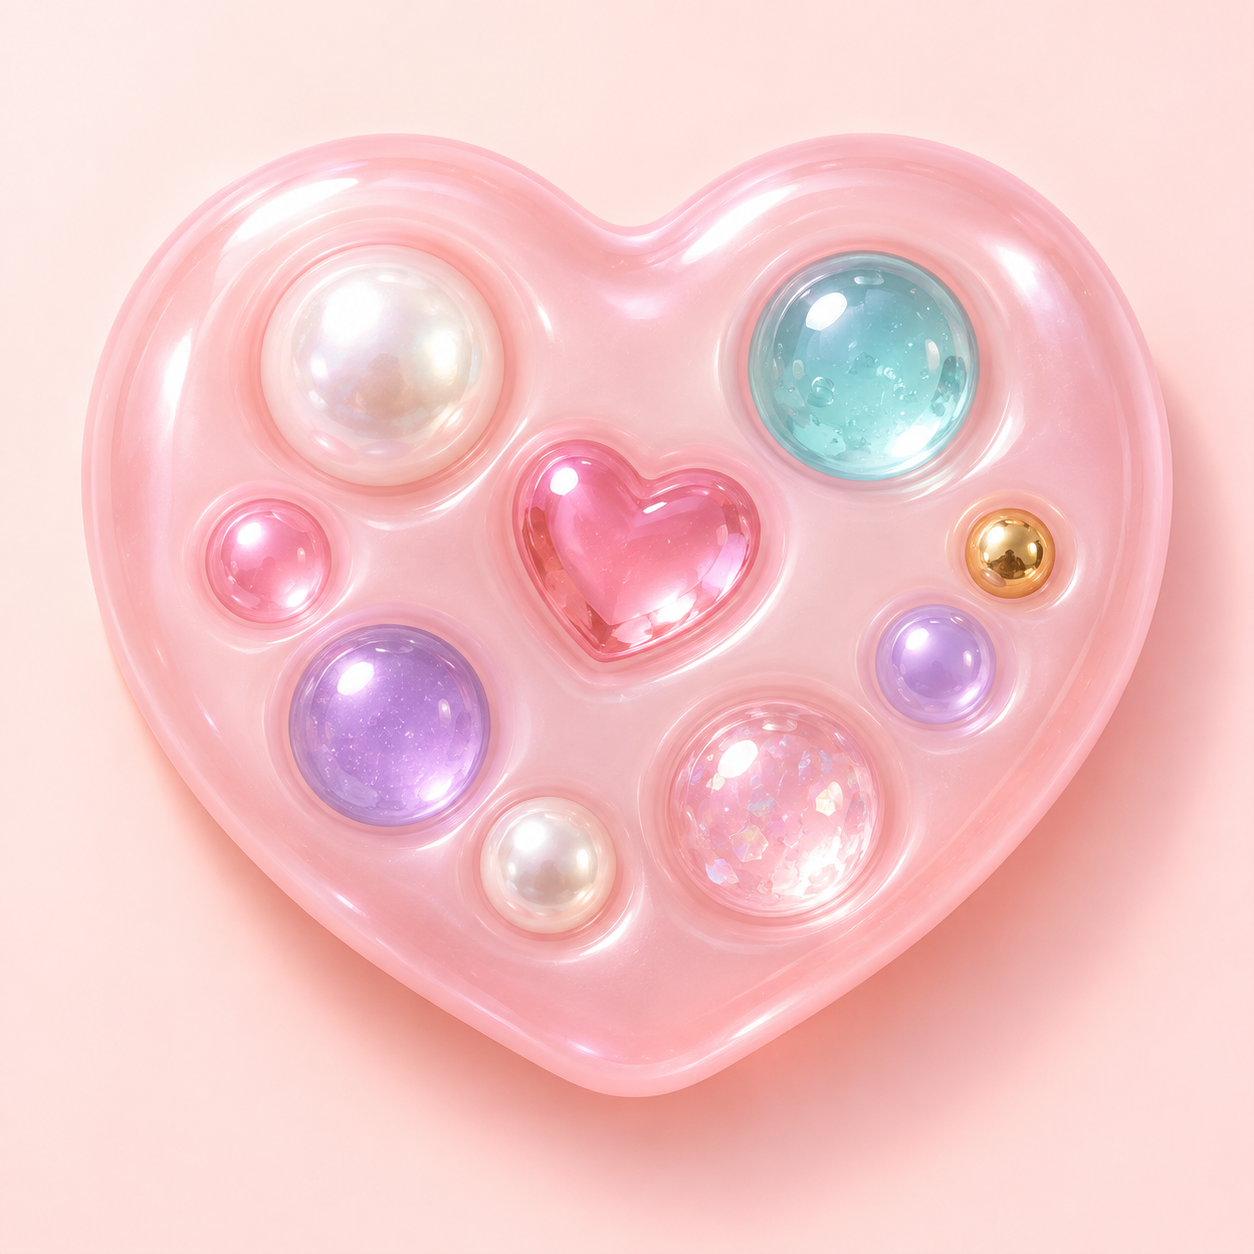
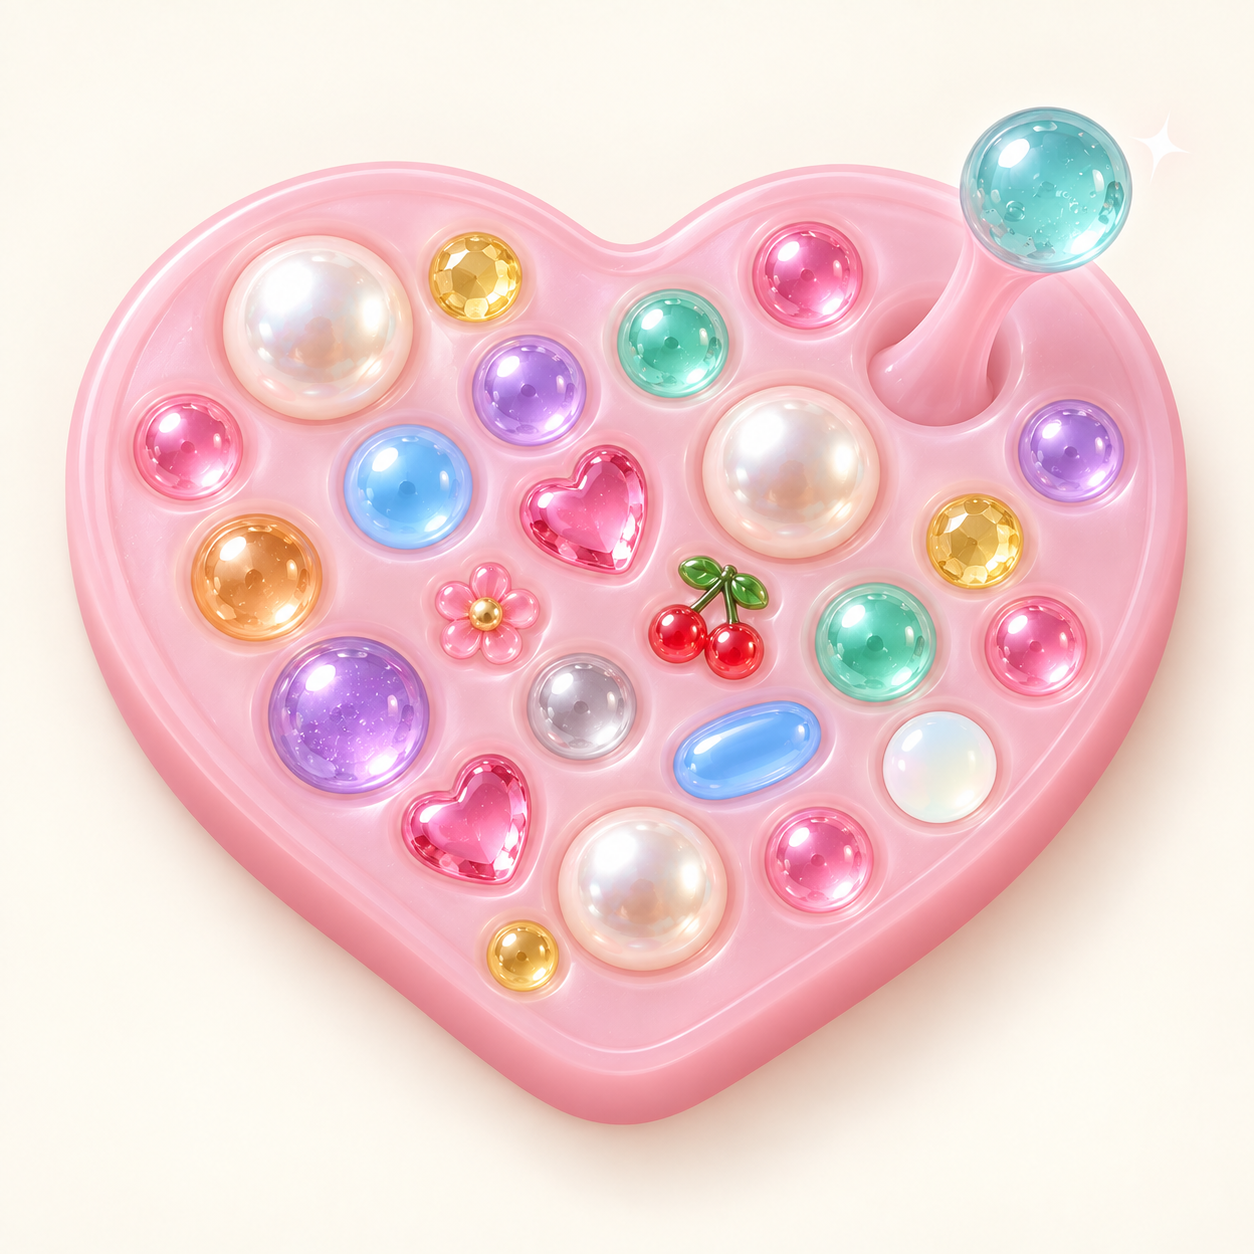
공유 카드와 큰 비즈 손맛 개선

diff --git a/src/game/Game.ts b/src/game/Game.ts
@@ -635,6 +635,7 @@ export class Game extends Emitter<GameEvents> {
   private doPop(b: Bead, fingerId: number, dx: number, dy: number, speed: number) {
     const s = this.s;
     const sizeStrength = pullSizeStrength(b, this.gel.R);
+    const king = b.type.id === "king";
     const rare = b.type.rarity === "rare";
     const pos = beadPos(b);
     this.pulls.delete(fingerId);
@@ -645,14 +646,23 @@ export class Game extends Emitter<GameEvents> {
 
     // 0ms: freed – kicks toward the finger, hangs there ~150ms so the moment lands, then arcs into the cup
     // (treasures arc up to the treasure box instead)
-    const kick = b.type.bounce * s * (1 + Math.min(speed, 1400) / 2800);
-    const start = this.toCanvas(pos.x + dx * kick, pos.y + dy * kick);
+    const kick = b.type.bounce * s * (1 + Math.min(speed, 1400) / 2800) * (king ? 1.65 : 1);
+    let kx = dx * kick;
+    let ky = king ? Math.min(dy * kick, -kick * 0.25) - 12 * s : dy * kick;
+    const start = this.toCanvas(pos.x + kx, pos.y + ky);
+    if (king) {
+      const margin = b.radius * 1.25;
+      start.x = clamp(start.x, margin, this.w - margin);
+      start.y = clamp(start.y, margin, this.h - margin);
+      kx = start.x - this.padCx - pos.x;
+      ky = (start.y - this.padCy) / this.gel.tilt - pos.y;
+    }
     const kind = treasureKind(b.type);
     const end = kind ? this.treasureEntry : this.collector.entry;
     const mx = (start.x + end.x) / 2 + dx * 30 * s;
-    const my = Math.min(start.y, end.y) - (70 + 60 * Math.random()) * s;
-    const dur = (0.46 + b.type.mass * 0.11) * (0.92 + Math.random() * 0.16);
-    const hang = 0.12 + b.type.mass * 0.03;
+    const my = Math.max(b.radius * 1.25, Math.min(start.y, end.y) - (70 + 60 * Math.random() + (king ? 40 : 0)) * s);
+    const dur = (king ? 0.48 : 0.46 + b.type.mass * 0.11) * (0.92 + Math.random() * 0.16);
+    const hang = king ? 0.15 : 0.12 + b.type.mass * 0.03;
     b.fly = {
       hang,
       x0: start.x,
@@ -663,15 +673,15 @@ export class Game extends Emitter<GameEvents> {
       y1: end.y,
       t: 0,
       dur,
-      kx: dx * kick,
-      ky: dy * kick,
+      kx,
+      ky,
       px: pos.x,
       py: pos.y,
       spin: (Math.random() - 0.5) * 9,
     };
 
     // t = 0: sound + haptic land exactly with the release
-    sfx.pop(b.type.sound, b.type.mass, rare || !!kind);
+    sfx.pop(b.type.sound, b.type.mass, rare || !!kind, king ? 1.3 : 1);
     if (kind) this.schedule(0.05, () => haptics.rare());
     else haptics.pop(b.type.mass);
     if (kind === "ultra") this.schedule(0.12, () => sfx.chime(true));
@@ -696,7 +706,7 @@ export class Game extends Emitter<GameEvents> {
     // +30ms: gel snaps back the other way, dent appears
     this.schedule(0.03, () => {
       const m = Math.pow(b.type.mass, 0.6);
-      const strength = (lastInFree ? 1.22 : 1) * (1 + sizeStrength * 0.18);
+      const strength = (lastInFree ? 1.22 : 1) * (1 + sizeStrength * 0.18) * (king ? 1.3 : 1);
       this.gel.recoil(-dx * 95 * s * m * strength, -dy * 95 * s * m * strength);
     });
     // +40ms: the gel around the hole bulges outward and rings down – neighbours ride it
@@ -846,7 +856,7 @@ export class Game extends Emitter<GameEvents> {
             const vx = (f.x1 - f.cx) * 2;
             const vy = (f.y1 - f.cy) * 2;
             this.collector.add(b, vx, vy);
-            sfx.land(b.type.material, b.type.mass);
+            sfx.land(b.type.id === "king" ? "glass" : b.type.material, b.type.mass);
           }
           b.fly = undefined;
         }
@@ -1274,9 +1284,10 @@ export class Game extends Emitter<GameEvents> {
     // The strand is narrower than the bead at both ends (it was a triangle when its base
     // spanned the whole lip) and has a waist that thins as the bead comes out.
     if (offL > r * (0.45 - 0.12 * J)) {
-      const w0 = r * (0.6 + 0.1 * J - 0.15 * P + opening * 0.13);
-      const w1 = r * (0.5 - 0.2 * P) * (1 + 0.1 * J);
-      const wm = Math.max(r * 0.12, r * (0.4 - 0.24 * P) * (1 + 0.25 * J + 0.3 * J * O));
+      const kingWidth = b.type.id === "king" ? 1 : 0;
+      const w0 = r * (0.6 + 0.1 * J - 0.15 * P + opening * 0.13 + kingWidth * 0.13);
+      const w1 = r * (0.5 - 0.2 * P + kingWidth * 0.1) * (1 + 0.1 * J);
+      const wm = Math.max(r * 0.12, r * (0.4 - 0.24 * P + kingWidth * 0.14) * (1 + 0.25 * J + 0.3 * J * O));
       const mx = hx + b.off.x * 0.5;
       const my = hy + b.off.y * 0.5;
       const neck = () => {

diff --git a/src/ui/Sheets.tsx b/src/ui/Sheets.tsx
@@ -1,4 +1,5 @@
 import { useEffect, useRef, useState, type ReactNode } from "react";
+import { Environment, Share } from "@apps-in-toss/web-framework";
 import type { Game } from "../game/Game";
 import { getBeadSprite } from "../game/beads/BeadSprites";
 import type { BeadType } from "../game/beads/BeadTypes";
@@ -9,6 +10,40 @@ import { HIDDEN_POOLS } from "../game/rewards/rates";
 import { haptics } from "../game/haptics";
 import { sfx } from "../game/audio/Sfx";
 import { PadSilhouette } from "./NextPanel";
+
+const SHARE_PAGE_URL = "https://sbp37.github.io/ssok/";
+const SHARE_IMAGE_URL = `${SHARE_PAGE_URL}branding/share-stretch.jpg`;
+
+async function shareCollection(): Promise<"shared" | "copied"> {
+  let inToss = false;
+  try {
+    inToss = Environment.environment === "toss" || Environment.environment === "sandbox";
+  } catch {
+    // The normal web build has no Toss host constants.
+  }
+
+  if (inToss) {
+    const link = await Share.createLink({
+      path: "intoss://ssok-picky-pad/",
+      ogImageUrl: SHARE_IMAGE_URL,
+    });
+    await Share.sendMessage({
+      message: `쭈우욱… 쏙!\n말랑한 젤 비즈를 뽑아봐\n${link}`,
+    });
+    return "shared";
+  }
+
+  if (navigator.share) {
+    await navigator.share({
+      title: "쏙: 피키패드",
+      text: "쭈우욱… 쏙! 말랑한 젤 비즈를 뽑아봐",
+      url: SHARE_PAGE_URL,
+    });
+    return "shared";
+  }
+  await navigator.clipboard.writeText(SHARE_PAGE_URL);
+  return "copied";
+}
 
 /** which pad hides this treasure most often – a nudge for the empty card, never a promise */
 function hidesIn(typeId: string): string {
@@ -67,6 +102,9 @@ export function BeadIcon({ type, size, found }: { type: BeadType; size: number; 
  */
 export function CollectionSheet({ game, onClose }: { game: Game; onClose: () => void }) {
   const [, tick] = useState(0);
+  const sharing = useRef(false);
+  const [shareBusy, setShareBusy] = useState(false);
+  const [shareNotice, setShareNotice] = useState("");
   useEffect(() => {
     const a = game.treasure.subscribe(() => tick((n) => n + 1));
     const b = game.progressStore.subscribe(() => tick((n) => n + 1));
@@ -78,6 +116,23 @@ export function CollectionSheet({ game, onClose }: { game: Game; onClose: () => 
   const t = game.treasure;
   const prog = game.progressStore;
   const foundPads = PADS.filter((p) => prog.isDiscovered(p.id)).length;
+  const onShare = async () => {
+    if (sharing.current) return;
+    sharing.current = true;
+    setShareBusy(true);
+    setShareNotice("");
+    try {
+      const result = await shareCollection();
+      if (result === "copied") setShareNotice("링크를 복사했어.");
+    } catch (error) {
+      if (!(error instanceof Error && error.name === "AbortError")) {
+        setShareNotice("공유를 열지 못했어. 잠시 후 다시 눌러 줘.");
+      }
+    } finally {
+      sharing.current = false;
+      setShareBusy(false);
+    }
+  };
   return (
     <Sheet title="컬렉션" sub={`패드 ${foundPads}/${PADS.length} · 보물 ${t.found}/${t.total}`} onClose={onClose}>
       <div className="section">패드</div>
@@ -118,6 +173,11 @@ export function CollectionSheet({ game, onClose }: { game: Game; onClose: () => 
         </div>
       ))}
       <div className="sheet-foot">빈칸은 어느 패드에 숨어 있을까.</div>
+      <button className="collection-share" disabled={shareBusy} onClick={() => void onShare()}>
+        <span aria-hidden="true">↗</span>
+        {shareBusy ? "공유 준비 중…" : "친구에게 공유하기"}
+      </button>
+      {shareNotice && <div className="share-notice" role="status">{shareNotice}</div>}
     </Sheet>
   );
 }

diff --git a/src/game/audio/Sfx.ts b/src/game/audio/Sfx.ts
@@ -13,7 +13,7 @@ class Sfx {
   private master: GainNode | null = null;
   private noise: AudioBuffer | null = null;
   private bank = new SampleBank();
-  private pendingPop: { kind: PopSound; mass: number; rare: boolean; at: number } | null = null;
+  private pendingPop: { kind: PopSound; mass: number; rare: boolean; gain: number; at: number } | null = null;
   private startAt = 0;
   enabled = true;
 
@@ -98,7 +98,7 @@ class Sfx {
     const p = this.pendingPop;
     this.pendingPop = null;
     // Only the recent POP survives an audio unlock, never a backlog of creaks.
-    if (performance.now() - p.at <= 1500) this.pop(p.kind, p.mass, p.rare);
+    if (performance.now() - p.at <= 1500) this.pop(p.kind, p.mass, p.rare, p.gain);
   }
 
   private get soundTime() {
@@ -251,19 +251,19 @@ class Sfx {
     if (mass > 1.05) this.burst(0.05, 0.018 * Math.min(1, mass - 1), { type: "bandpass", freq: 620 / Math.pow(mass, 0.3), freq1: 760 / Math.pow(mass, 0.3), q: 6, attack: 0.012 });
   }
 
-  pop(kind: PopSound, mass: number, rare = false) {
+  pop(kind: PopSound, mass: number, rare = false, gain = 1) {
     if (!this.enabled) return;
     if (!this.ready) {
       if (this.ctx && (!this.pendingPop || performance.now() - this.pendingPop.at > 1500)) {
-        this.pendingPop = { kind, mass, rare, at: performance.now() };
+        this.pendingPop = { kind, mass, rare, gain, at: performance.now() };
       }
       return;
     }
     const m = Math.pow(mass, 0.45);
     const jp = this.j(0.08);
-    const jv = this.j(0.1);
+    const jv = this.j(0.1) * Math.max(0, Math.min(1.3, gain));
     const big = mass > 1.1;
-    if (kind !== "ting" && this.sample(big ? "pop_big" : "pop_small", 1 / m, 0.9)) {
+    if (kind !== "ting" && this.sample(big ? "pop_big" : "pop_small", 1 / m, 0.9 * Math.max(0, Math.min(1.3, gain)))) {
       if (rare) this.sample("rare", 1, 0.6, 0.04);
       return;
     }

diff --git a/src/game/physics/pull.ts b/src/game/physics/pull.ts
@@ -105,7 +105,7 @@ export class Pull {
     this.jam = bead.type.jam ?? clamp((bead.radius / s - JAM_R0) / 8, 0, 1);
     this.sizeStrength = pullSizeStrength(bead, padR);
     const originalNeck = bead.type.neck ?? 1;
-    this.neck = this.sizeStrength > 0
+    this.neck = bead.type.id === "king" ? 2.1 : this.sizeStrength > 0
       ? Math.max(originalNeck, 1 + this.sizeStrength * 0.4) : originalNeck;
     if (this.jam > 0) {
       this.jams.push({ p: 0.38 + (rand() - 0.5) * 0.16, w: this.jam * 30 * s, hit: false, freed: false });
@@ -203,11 +203,12 @@ export class Pull {
       }
       this.progress = p;
       // creeps out to ~2.4 radii by the threshold (further for a long-necked charm), curve set by friction
-      const creep = Math.pow(p, 1 + b.type.friction * 1.4) * b.radius * 2.4 * this.neck;
+      const king = b.type.id === "king";
+      const creep = Math.pow(p, 1 + b.type.friction * (king ? 0.7 : 1.4)) * b.radius * 2.4 * this.neck;
       // A long elastic neck remains behind a rigid bead. Keep it behind the
       // finger even for king beads; the existing success distance is unchanged.
       offMag = this.sizeStrength > 0
-        ? Math.min(1.6 * s + creep, Math.max(1.6 * s, dist * 0.9)) : 1.6 * s + creep;
+        ? Math.min(1.6 * s + creep, Math.max(1.6 * s, dist * (king ? 0.96 : 0.9))) : 1.6 * s + creep;
       const step = Math.floor(p * 6);
       if (step > this.lastStep && p < 1) {
         this.lastStep = step;

diff --git a/src/game/rewards/PromotionRewards.ts b/src/game/rewards/PromotionRewards.ts
@@ -14,6 +14,9 @@ const LIVE_CODES: Record<PromotionMilestone, string> = {
   returnVisit: "01M2G7GN8PMTXBNVJWJXJ2V8MH",
 };
 
+const LIVE_MODE = import.meta.env.VITE_PROMOTION_MODE === "live";
+const ACTIVE_CODES = LIVE_MODE ? LIVE_CODES : TEST_CODES;
+
 const AMOUNTS: Record<PromotionMilestone, number> = {
   firstPad: 1,
   thirdPad: 3,
@@ -34,7 +37,7 @@ interface SavedPromotionState {
  * local or QA build much less likely.
  */
 export class PromotionRewards {
-  readonly mode = import.meta.env.VITE_PROMOTION_MODE === "live" ? "live" : "test";
+  readonly mode = LIVE_MODE ? "live" : "test";
   private granted = new Set<string>();
   private inFlight = new Set<PromotionMilestone>();
 
@@ -48,10 +51,6 @@ export class PromotionRewards {
     }
   }
 
-  private get codes() {
-    return this.mode === "live" ? LIVE_CODES : TEST_CODES;
-  }
-
   private save() {
     try {
       this.storage?.setItem(STORAGE_KEY, JSON.stringify({ granted: [...this.granted] }));
@@ -61,7 +60,7 @@ export class PromotionRewards {
   }
 
   async grant(milestone: PromotionMilestone): Promise<boolean> {
-    const code = this.codes[milestone];
+    const code = ACTIVE_CODES[milestone];
     if (this.granted.has(code) || this.inFlight.has(milestone)) return false;
     try {
       if (!Promotion.grantReward.isSupported()) return false;

diff --git a/index.html b/index.html
@@ -11,8 +11,16 @@
     <meta name="apple-mobile-web-app-capable" content="yes" />
     <meta name="apple-mobile-web-app-status-bar-style" content="default" />
     <meta name="description" content="쏙! — 젤 패드에서 비즈를 하나씩 뽑는 손맛 미니게임" />
-    <link rel="icon" href="./icon.svg" type="image/svg+xml" />
-    <title>쏙!</title>
+    <meta property="og:type" content="website" />
+    <meta property="og:title" content="쏙: 피키패드" />
+    <meta property="og:description" content="쭈우욱… 쏙! 말랑한 젤 비즈 뽑기" />
+    <meta property="og:image" content="https://sbp37.github.io/ssok/branding/share-stretch.jpg" />
+    <meta property="og:image:width" content="1200" />
+    <meta property="og:image:height" content="600" />
+    <meta name="twitter:card" content="summary_large_image" />
+    <link rel="icon" href="./branding/app-icon-600.png" type="image/png" />
+    <link rel="apple-touch-icon" href="./branding/app-icon-600.png" />
+    <title>쏙: 피키패드</title>
   </head>
   <body>
     <div id="root"></div>

diff --git a/src/game/beads/Bead.ts b/src/game/beads/Bead.ts
@@ -351,5 +351,19 @@ export function generatePad(padR: number, rng: Rng, opts: PadOptions = {}): Bead
       beads.push(buried);
     }
   }
+  // Independent random angles can cluster (several hearts pointing the same
+  // way). Keep a random first angle, then spread repeats around the circle.
+  // Reuse existing angles as jitter: no extra RNG calls or layout/odds changes.
+  const orientations = new Map<string, { phase: number; count: number }>();
+  for (const bead of beads) {
+    if (bead.type.shape === "circle") continue;
+    const group = orientations.get(bead.type.id) ?? { phase: bead.rot, count: 0 };
+    const period = bead.type.shape === "star" ? Math.PI * 2 / 5
+      : bead.type.shape === "oval" ? Math.PI : Math.PI * 2;
+    bead.rot = group.phase + group.count * period * 0.61803398875 + Math.sin(bead.rot) * period * 0.025;
+    bead.rot = Math.atan2(Math.sin(bead.rot), Math.cos(bead.rot));
+    group.count++;
+    orientations.set(bead.type.id, group);
+  }
   return beads;
 }

diff --git a/src/ui/styles.css b/src/ui/styles.css
@@ -584,6 +584,31 @@ body,
   font-size: 12px;
   color: var(--ink-faint);
 }
+.collection-share {
+  width: 100%;
+  min-height: 48px;
+  margin-top: 14px;
+  border: 1px solid rgba(145, 80, 108, 0.12);
+  border-radius: 14px;
+  background: rgba(255, 255, 255, 0.86);
+  color: #8b526b;
+  font: inherit;
+  font-size: 14px;
+  font-weight: 650;
+  display: flex;
+  align-items: center;
+  justify-content: center;
+  gap: 7px;
+  cursor: pointer;
+}
+.collection-share:active { transform: scale(0.99); }
+.collection-share:disabled { opacity: 0.55; cursor: default; }
+.share-notice {
+  margin-top: 8px;
+  color: var(--ink-soft);
+  font-size: 12px;
+  text-align: center;
+}
 .grid {
   display: grid;
   grid-template-columns: repeat(4, 1fr);
